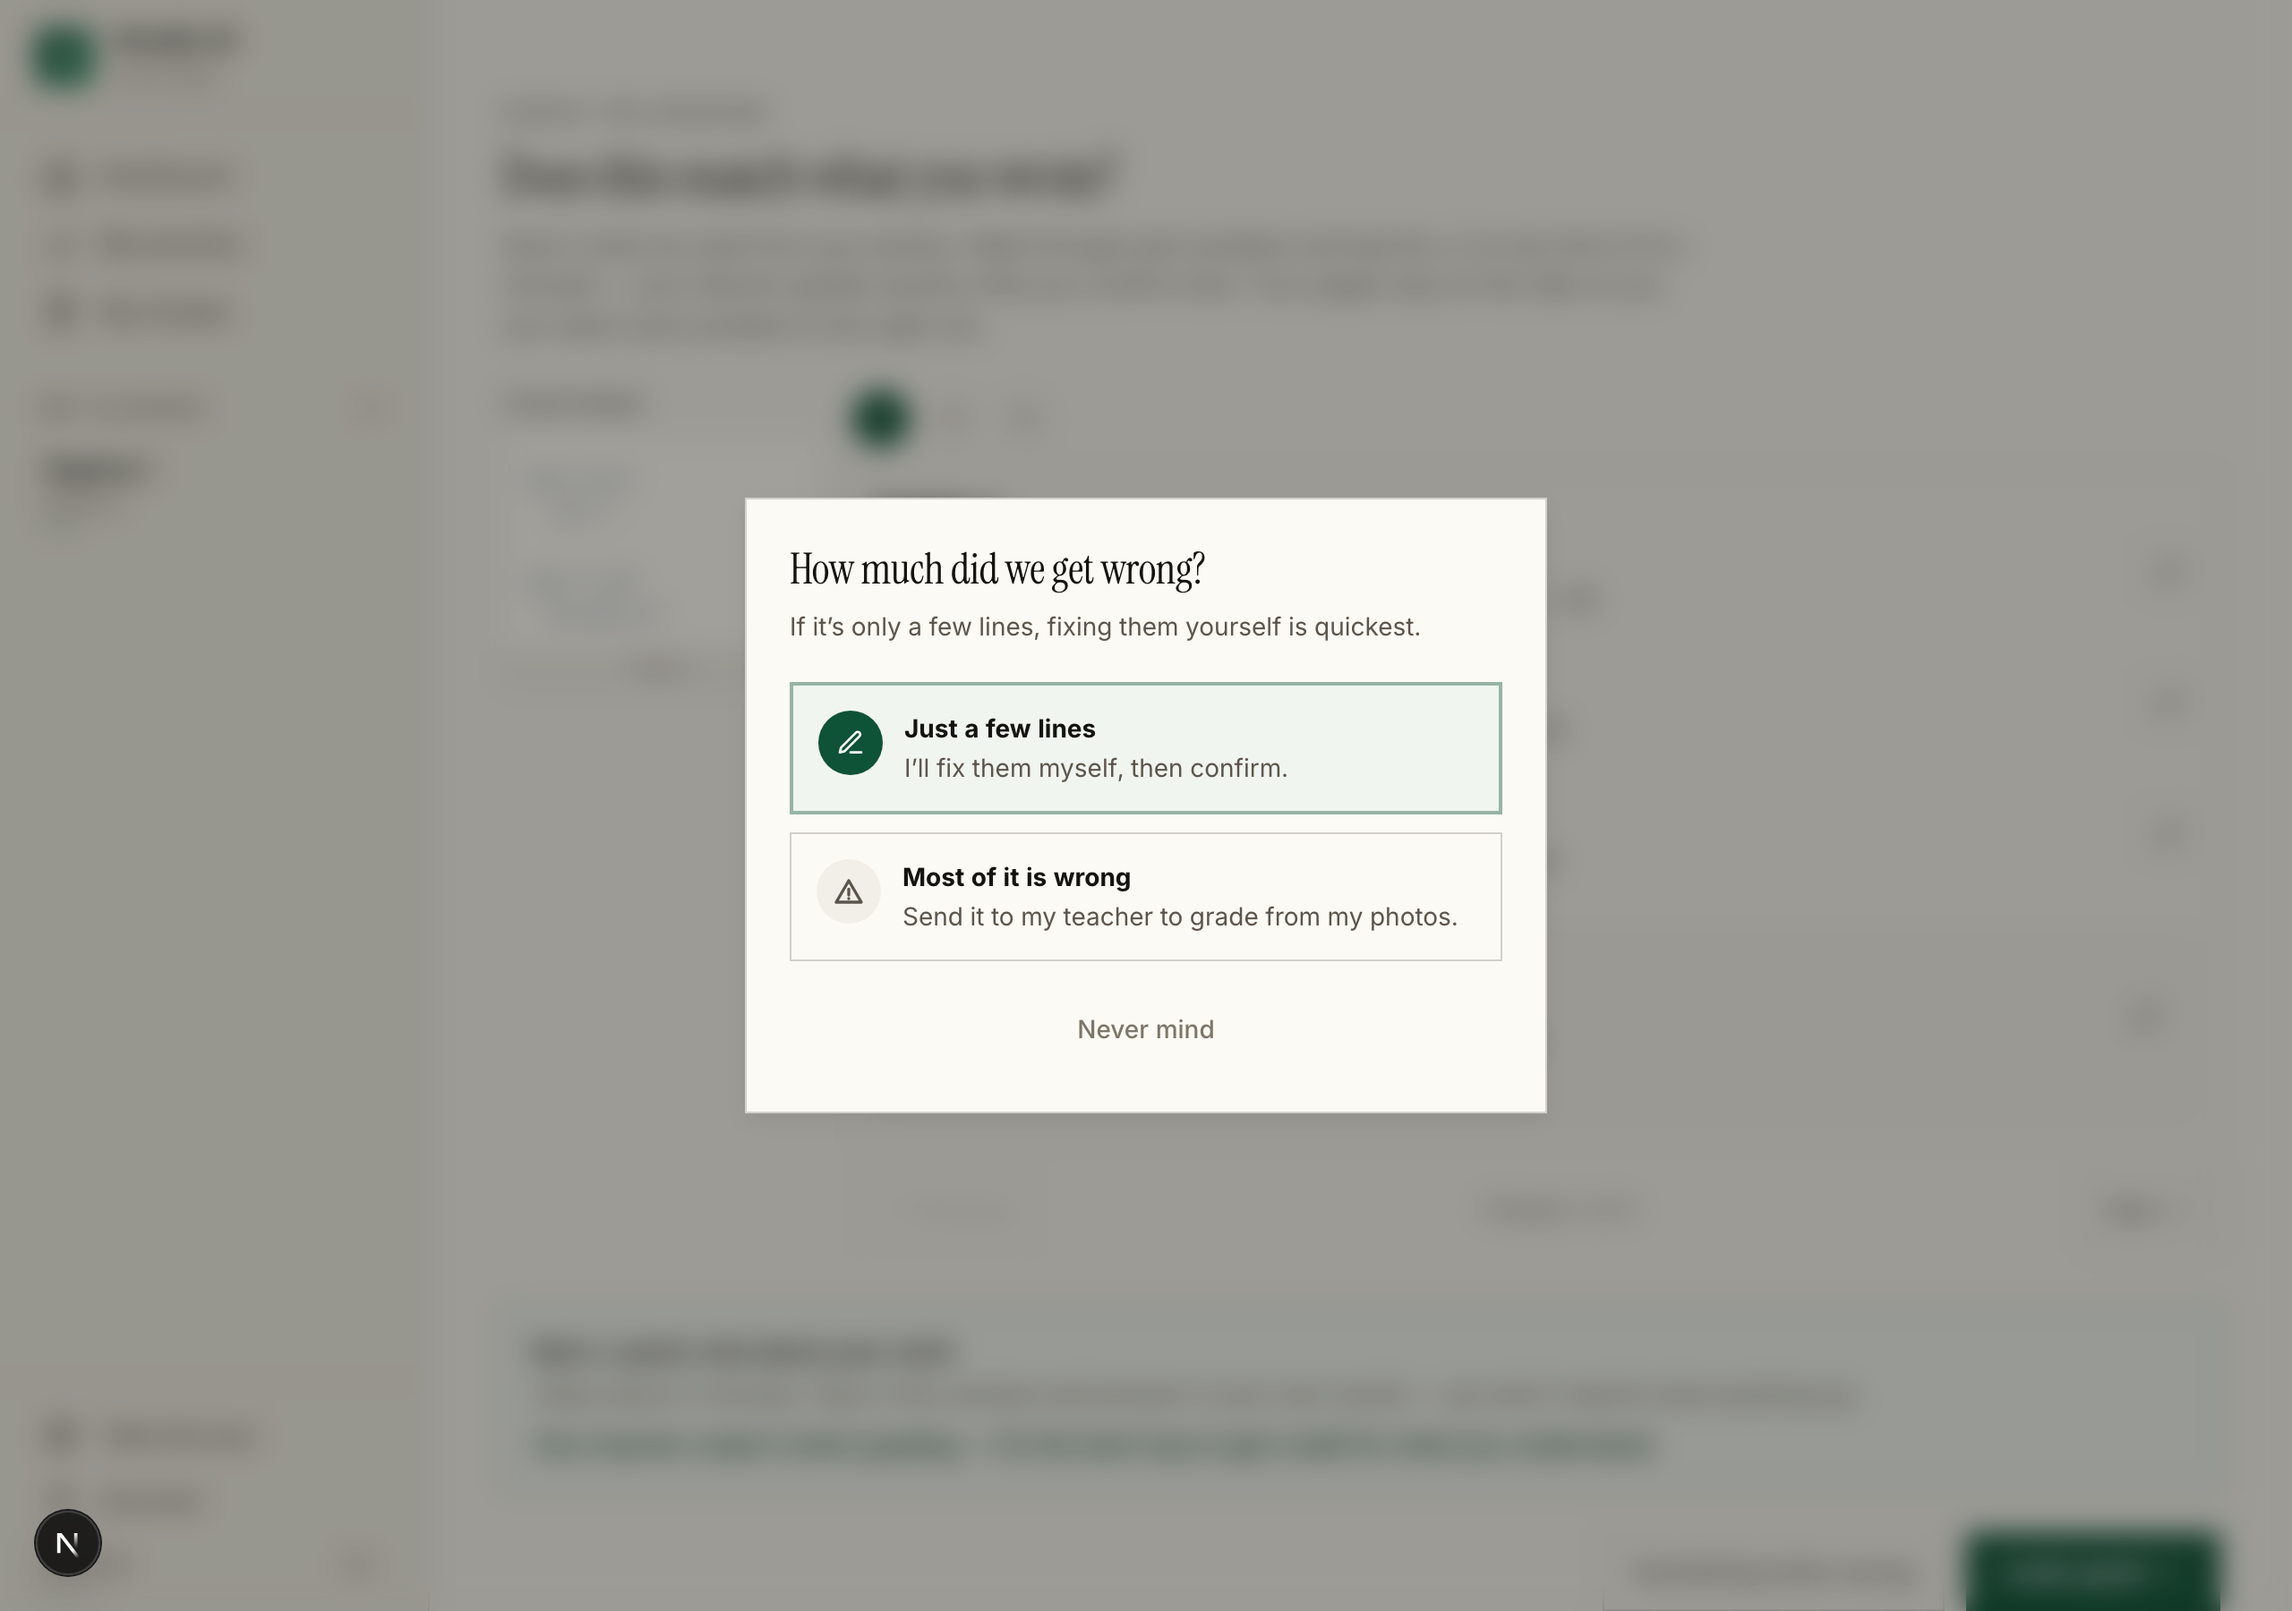
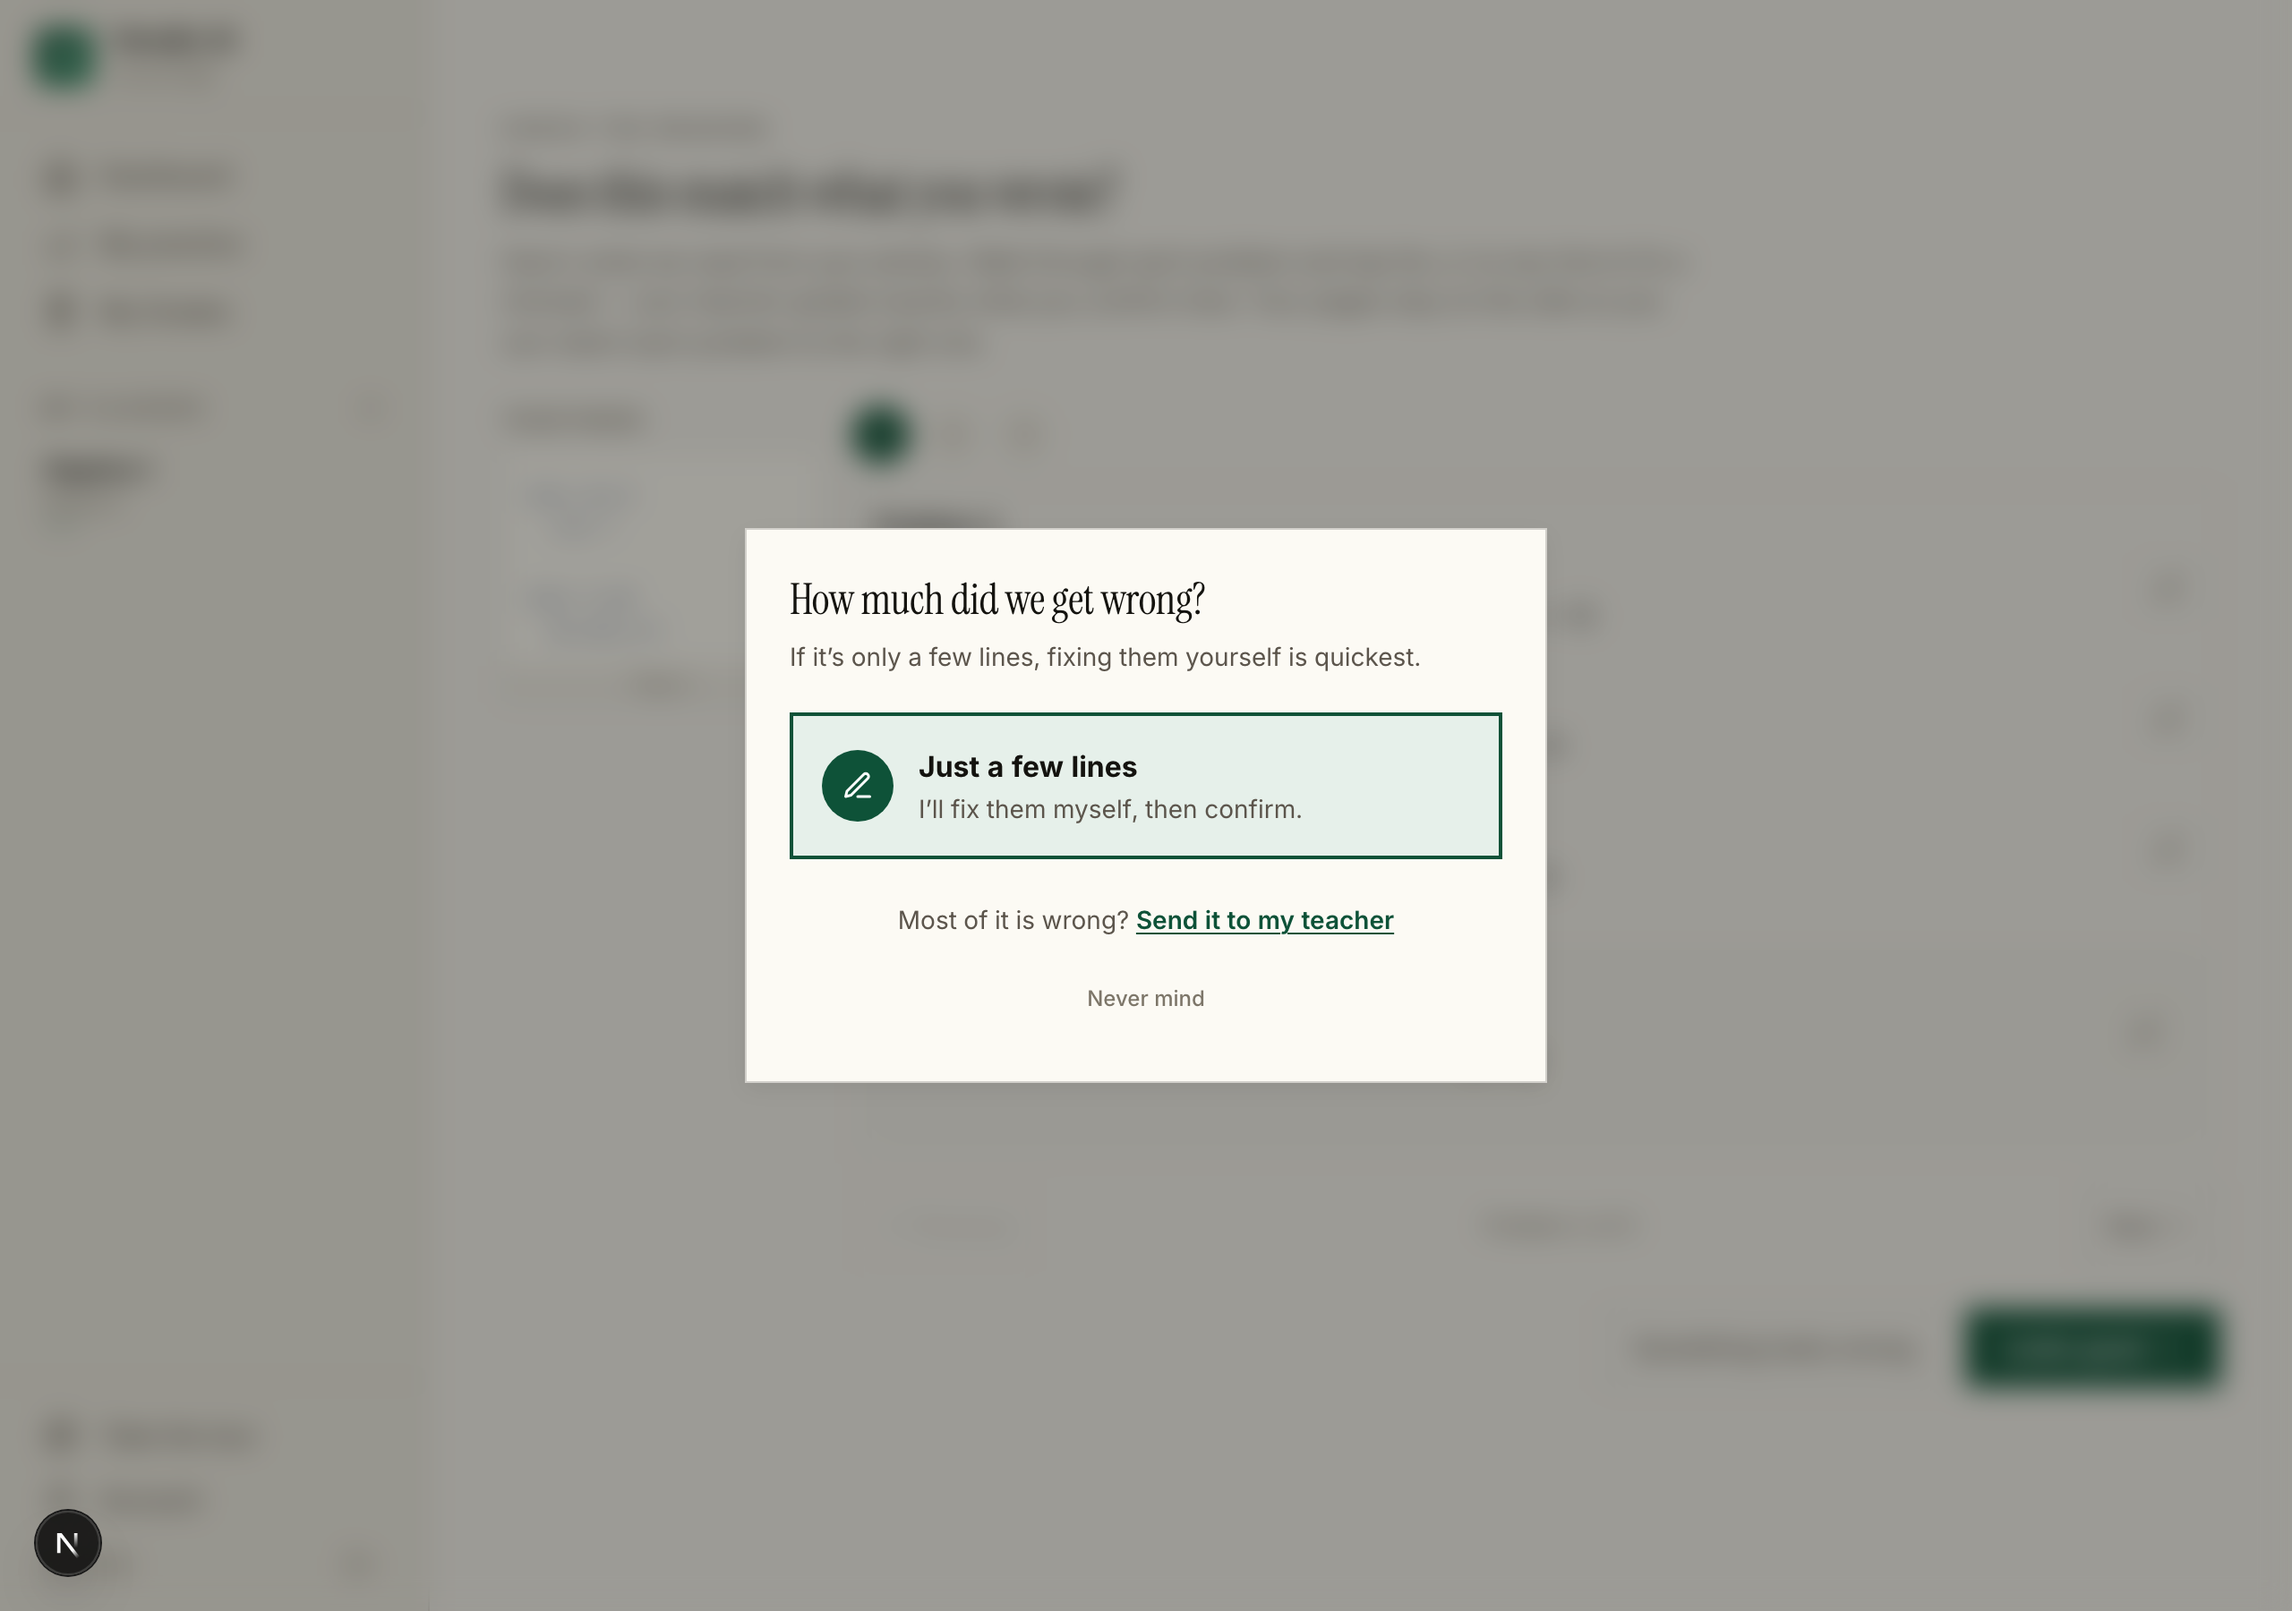
feat: make fixing it yourself the primary path in the flag step
"Just a few lines" is now the single prominent card; "Most of it is
wrong? Send it to my teacher" is a quieter text button (still a real
44px button with a full accessible label), and "Never mind" is muted.

Claude-Session: https://claude.ai/code/session_01G6C8ExqtfnML3bPFwxdP8h

diff --git a/web/src/components/school/student/submission-extraction-confirm-view.tsx b/web/src/components/school/student/submission-extraction-confirm-view.tsx
@@ -710,53 +710,46 @@ export function SubmissionExtractionConfirmView({
             <p className="mt-1.5 text-sm leading-relaxed text-text-secondary">
               If it&rsquo;s only a few lines, fixing them yourself is quickest.
             </p>
-            <div className="mt-5 space-y-2.5">
-              <button
-                type="button"
-                onClick={startFixing}
-                className="flex w-full items-start gap-3 rounded-[--radius-md] border-2 border-primary/40 bg-primary-bg/50 p-3.5 text-left transition-colors hover:border-primary focus:outline-none focus-visible:ring-2 focus-visible:ring-primary"
+            {/* Fixing it yourself is the path we steer toward: one
+                prominent card. Sending it to the teacher stays a real,
+                always-visible button — a student whose work truly was
+                misread must be able to find it — just quieter. */}
+            <button
+              type="button"
+              onClick={startFixing}
+              className="mt-5 flex w-full items-center gap-3.5 rounded-[--radius-md] border-2 border-primary bg-primary-bg p-4 text-left transition-colors hover:bg-primary-bg/70 focus:outline-none focus-visible:ring-2 focus-visible:ring-primary focus-visible:ring-offset-2"
+            >
+              <span
+                aria-hidden
+                className="flex h-10 w-10 shrink-0 items-center justify-center rounded-full bg-primary text-white"
               >
-                <span
-                  aria-hidden
-                  className="flex h-9 w-9 shrink-0 items-center justify-center rounded-full bg-primary text-white"
-                >
-                  <PencilIcon className="h-4 w-4" />
+                <PencilIcon className="h-[18px] w-[18px]" />
+              </span>
+              <span className="min-w-0">
+                <span className="block text-base font-bold text-text-primary">
+                  Just a few lines
                 </span>
-                <span className="min-w-0">
-                  <span className="block text-sm font-bold text-text-primary">
-                    Just a few lines
-                  </span>
-                  <span className="mt-0.5 block text-sm text-text-secondary">
-                    I&rsquo;ll fix them myself, then confirm.
-                  </span>
+                <span className="mt-0.5 block text-sm text-text-secondary">
+                  I&rsquo;ll fix them myself, then confirm.
                 </span>
-              </button>
+              </span>
+            </button>
+            <div className="mt-3 flex flex-col items-center">
               <button
                 type="button"
                 onClick={() => setFlagStep("note")}
-                className="flex w-full items-start gap-3 rounded-[--radius-md] border border-border bg-surface p-3.5 text-left transition-colors hover:border-text-muted focus:outline-none focus-visible:ring-2 focus-visible:ring-primary"
+                aria-label="Most of it is wrong? Send it to my teacher to grade from my photos."
+                className="inline-flex min-h-[44px] items-center rounded-[--radius-sm] px-3 text-sm text-text-secondary transition-colors hover:text-text-primary focus:outline-none focus-visible:ring-2 focus-visible:ring-primary"
               >
-                <span
-                  aria-hidden
-                  className="flex h-9 w-9 shrink-0 items-center justify-center rounded-full bg-bg-subtle text-text-secondary"
-                >
-                  <AlertTriangleIcon className="h-4 w-4" />
-                </span>
-                <span className="min-w-0">
-                  <span className="block text-sm font-bold text-text-primary">
-                    Most of it is wrong
-                  </span>
-                  <span className="mt-0.5 block text-sm text-text-secondary">
-                    Send it to my teacher to grade from my photos.
-                  </span>
+                Most of it is wrong?&nbsp;
+                <span className="font-semibold text-primary underline underline-offset-2">
+                  Send it to my teacher
                 </span>
               </button>
-            </div>
-            <div className="mt-4 text-center">
               <button
                 type="button"
                 onClick={() => setFlagStep(null)}
-                className="min-h-[44px] px-3 text-sm font-medium text-text-muted underline-offset-2 hover:text-text-secondary hover:underline"
+                className="min-h-[44px] rounded-[--radius-sm] px-3 text-xs font-medium text-text-muted transition-colors hover:text-text-secondary focus:outline-none focus-visible:ring-2 focus-visible:ring-primary"
               >
                 Never mind
               </button>

diff --git a/mobile/src/components/ExtractionConfirmScreen.tsx b/mobile/src/components/ExtractionConfirmScreen.tsx
@@ -421,21 +421,28 @@ export function ExtractionConfirmScreen({ assignmentId, onDone, onIntegrityCheck
                 <Text style={styles.optionBody}>I'll fix them myself, then confirm.</Text>
               </View>
             </AnimatedPressable>
+            {/* Fixing it yourself is the steered path (the card above);
+                sending it to the teacher stays a real, always-visible
+                button for a student whose work truly was misread — just
+                quieter. */}
             <AnimatedPressable
-              style={styles.option}
+              style={styles.textAction}
               onPress={() => setFlagStep("note")}
               accessibilityRole="button"
-              accessibilityLabel="Most of it is wrong. Send it to my teacher to grade from my photos."
+              accessibilityLabel="Most of it is wrong? Send it to my teacher to grade from my photos."
             >
-              <View style={[styles.optionIcon, { backgroundColor: colors.surfaceAlt }]}>
-                <Ionicons name="alert-circle-outline" size={18} color={colors.textSecondary} />
-              </View>
-              <View style={styles.flex}>
-                <Text style={styles.optionTitle}>Most of it is wrong</Text>
-                <Text style={styles.optionBody}>Send it to my teacher to grade from my photos.</Text>
-              </View>
+              <Text style={styles.secondaryActionText}>
+                Most of it is wrong? <Text style={styles.secondaryActionLink}>Send it to my teacher</Text>
+              </Text>
             </AnimatedPressable>
-            <Button label="Never mind" variant="ghost" onPress={() => setFlagStep(null)} />
+            <AnimatedPressable
+              style={styles.textAction}
+              onPress={() => setFlagStep(null)}
+              accessibilityRole="button"
+              accessibilityLabel="Never mind"
+            >
+              <Text style={styles.dismissText}>Never mind</Text>
+            </AnimatedPressable>
           </View>
         ) : flagStep === "note" ? (
           <View style={styles.stepCard}>
@@ -601,6 +608,11 @@ const makeStyles = (colors: ColorPalette) => StyleSheet.create({
     padding: spacing.md,
   },
   optionPrimary: { borderWidth: 2, borderColor: colors.primary, backgroundColor: colors.primaryBg },
+  // Compact text-style actions under the primary card — still ≥44pt tall.
+  textAction: { minHeight: 44, alignItems: "center", justifyContent: "center", paddingHorizontal: spacing.md },
+  secondaryActionText: { ...typography.body, fontSize: 14, color: colors.textSecondary, textAlign: "center" },
+  secondaryActionLink: { ...typography.bodyBold, color: colors.primary, textDecorationLine: "underline" },
+  dismissText: { ...typography.caption, fontSize: 13, color: colors.textMuted },
   optionIcon: { width: 32, height: 32, borderRadius: 16, alignItems: "center", justifyContent: "center" },
   optionTitle: { ...typography.bodyBold, fontSize: 15, color: colors.text },
   optionBody: { ...typography.body, fontSize: 13, lineHeight: 18, color: colors.textSecondary, marginTop: 2 },

diff --git a/mobile/src/components/ExtractionConfirmScreen.test.tsx b/mobile/src/components/ExtractionConfirmScreen.test.tsx
@@ -107,6 +107,10 @@ describe("ExtractionConfirmScreen", () => {
 
     fireEvent.press(await waitForText("Something looks wrong"));
     expect(await waitForText("How much did we get wrong?")).toBeTruthy();
+    // Sending it to the teacher is quieter but always there, as a real button.
+    expect(
+      screen.getByLabelText("Most of it is wrong? Send it to my teacher to grade from my photos."),
+    ).toBeTruthy();
     fireEvent.press(screen.getByText("Just a few lines"));
 
     expect(await waitForText("Tap a line to fix it, then confirm.")).toBeTruthy();
@@ -130,7 +134,7 @@ describe("ExtractionConfirmScreen", () => {
     fireEvent.changeText(screen.getByDisplayValue("x equals 2"), "x equals 3");
     await flush();
     fireEvent.press(screen.getByText("Something looks wrong"));
-    fireEvent.press(await waitForText("Most of it is wrong"));
+    fireEvent.press(await waitForText(/^Most of it is wrong\?/));
     expect(await waitForText("The line you fixed will go too.")).toBeTruthy();
     fireEvent.changeText(screen.getByLabelText("What did it get wrong? (optional)"), "it read my 7s as 1s");
     await flush();
@@ -168,7 +172,7 @@ describe("ExtractionConfirmScreen", () => {
     render(<ExtractionConfirmScreen assignmentId="a" onDone={onDone} onIntegrityCheck={jest.fn()} />);
 
     fireEvent.press(await waitForText("Something looks wrong"));
-    fireEvent.press(await waitForText("Most of it is wrong"));
+    fireEvent.press(await waitForText(/^Most of it is wrong\?/));
     fireEvent.press(await waitForText("Send to my teacher"));
 
     expect(await waitForText("Couldn't send it to your teacher. Try again.")).toBeTruthy();
